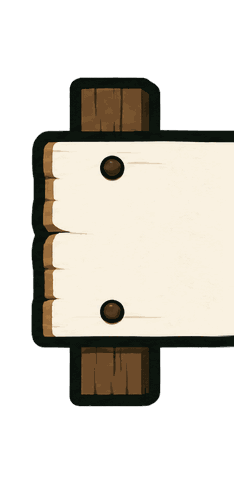
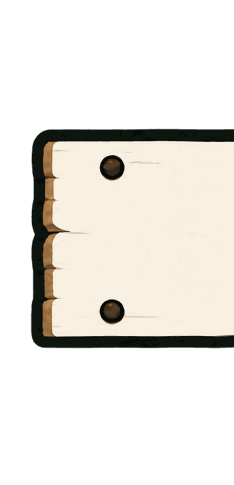
Fjern doble stolpar frå Duldord-skiltet

diff --git a/duldord/css/tursti.css b/duldord/css/tursti.css
@@ -48,12 +48,15 @@
 
 /* Den heile frontplanken er festa til brettet med to stolpar. */
 #hero.dd-welcome {
+  position: relative;
+  z-index: 0;
   display: flex;
   justify-content: center;
   margin: 0 auto 10px;
 }
 .dd-welcome-board {
   --dd-sign-height: clamp(260px, 32vw, 325px);
+  --dd-post-width: clamp(26px, calc(var(--dd-sign-height) * .15), 46px);
   position: relative;
   width: min(100%, 490px);
   height: var(--dd-sign-height);
@@ -76,9 +79,9 @@
   display: grid;
   grid-template-columns: calc(var(--dd-sign-height) * .483) minmax(0, 1fr) calc(var(--dd-sign-height) * .483);
 }
-.dd-sign-art-horizontal .dd-sign-left { background: url('../assets/planke-venstre.png?v=2') center / 100% auto no-repeat; }
-.dd-sign-art-horizontal .dd-sign-middle { background: url('../assets/planke-midt.png') center / auto 100% repeat-x; }
-.dd-sign-art-horizontal .dd-sign-right { background: url('../assets/planke-hogre.png?v=2') center / 100% auto no-repeat; }
+.dd-sign-art-horizontal .dd-sign-left { background: url('../assets/planke-venstre.png?v=3') center / 100% auto no-repeat; }
+.dd-sign-art-horizontal .dd-sign-middle { background: url('../assets/planke-midt.png?v=3') center / auto 100% repeat-x; }
+.dd-sign-art-horizontal .dd-sign-right { background: url('../assets/planke-hogre.png?v=3') center / 100% auto no-repeat; }
 .dd-welcome-content { position: relative; z-index: 1; width: 100%; padding: 7px 0 2px; }
 .dd-welcome-board::before { content: none; }
 .dd-welcome-heading {
@@ -110,13 +113,13 @@
   z-index: -1;
   top: 16%;
   bottom: -20px;
-  width: 16px;
-  border: 3px solid #142820;
-  border-radius: 3px;
+  width: var(--dd-post-width);
+  border: 4px solid #142820;
+  border-radius: 5px;
   background: linear-gradient(90deg, #3b2515, #98663a 30%, #784b29 75%, #372212);
 }
-.dd-header-post-left { left: calc(12% - 8px); }
-.dd-header-post-right { right: calc(12% - 8px); }
+.dd-header-post-left { left: calc(var(--dd-sign-height) * .218 - var(--dd-post-width) / 2); }
+.dd-header-post-right { right: calc(var(--dd-sign-height) * .218 - var(--dd-post-width) / 2); }
 
 /* Spelebrettet og vegvisartavla er to sjølvstendige flater på brei skjerm. */
 .dd-layout {
@@ -133,21 +136,9 @@
   position: absolute;
   z-index: 2;
   top: 82%;
-  left: calc(100% - 143px);
+  left: calc(100% - var(--dd-sign-height) * .218 - 74px);
   width: 156px;
   height: 88px;
-}
-.dd-day-signpost::before {
-  content: '';
-  position: absolute;
-  z-index: -1;
-  top: -17px;
-  bottom: -66px;
-  left: calc(50% - 7px);
-  width: 14px;
-  border: 3px solid #142820;
-  border-radius: 3px;
-  background: linear-gradient(90deg, #3b2515, #98663a 28%, #784b29 75%, #372212);
 }
 .dd-daydate {
   display: flex;
@@ -444,8 +435,7 @@
   .dd-welcome-board p { font-size: clamp(.58rem, 2.3vw, .75rem); }
   .dd-layout { gap: 10px; }
   .dd-board-stage { padding-top: 5px; margin-top: -25px; }
-  .dd-day-signpost { left: calc(100% - 115px); top: 82%; width: 126px; height: 70px; }
-  .dd-day-signpost::before { bottom: -47px; }
+  .dd-day-signpost { left: calc(100% - var(--dd-sign-height) * .218 - 58px); top: 82%; width: 126px; height: 70px; }
   .dd-daydate { width: 126px; padding-right: 10px; font-size: .68rem; }
   .dd-board-frame { padding: 25px 6px 12px 39px; border-width: 4px; }
   .dd-board { --dd-size: min(54px, calc((100vw - 105px - 4 * var(--dd-gap)) / 5)); }

diff --git a/duldord/index.html b/duldord/index.html
@@ -9,7 +9,7 @@
     <link rel="apple-touch-icon" href="/_resources/vyrde-ikon-180.png">
 <link rel="stylesheet" href="../css/neobrutalisme.css">
 <link rel="stylesheet" href="css/style.css?v=3">
-<link rel="stylesheet" href="css/tursti.css?v=8">
+<link rel="stylesheet" href="css/tursti.css?v=10">
 <script src="../js/neo-header.js" defer></script>
 </head>
 <body class="dd-page" data-light-theme="classic" data-dark-theme="space" data-theme="classic">
